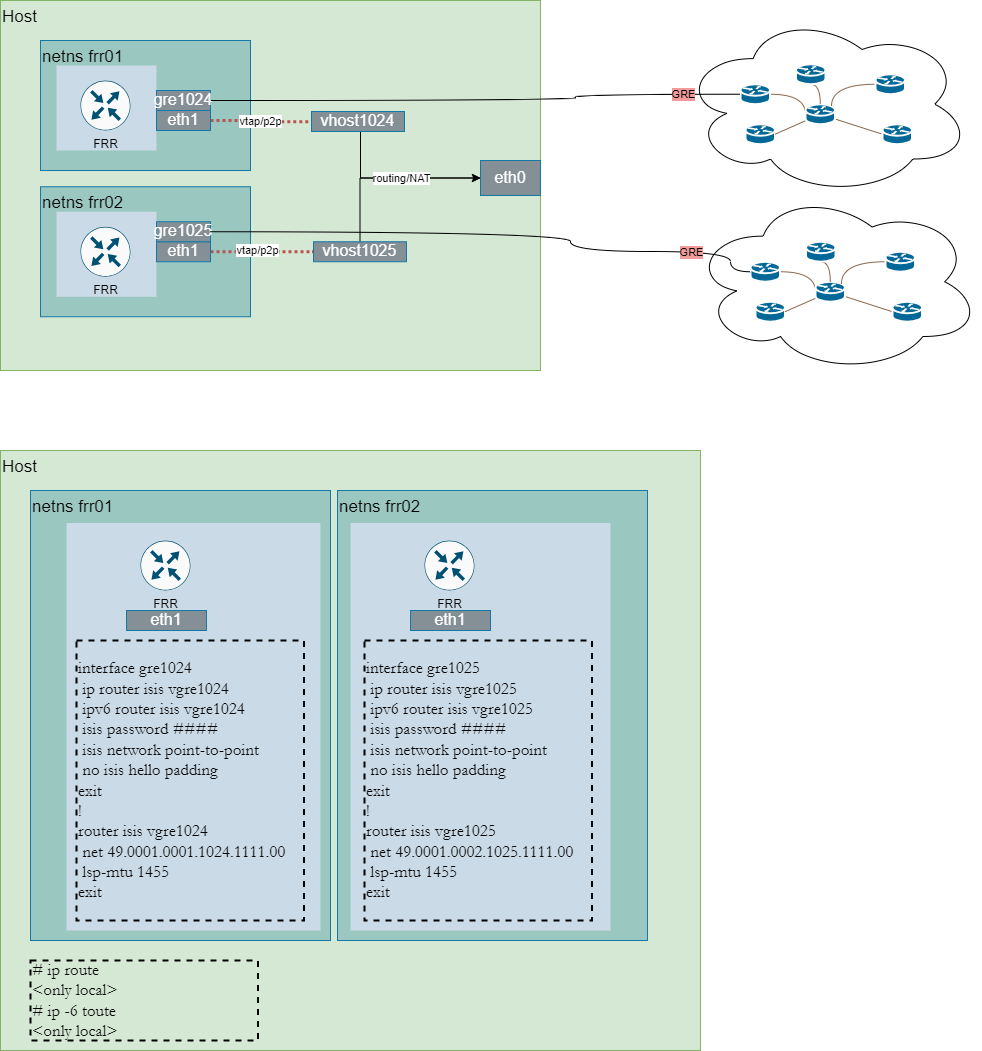
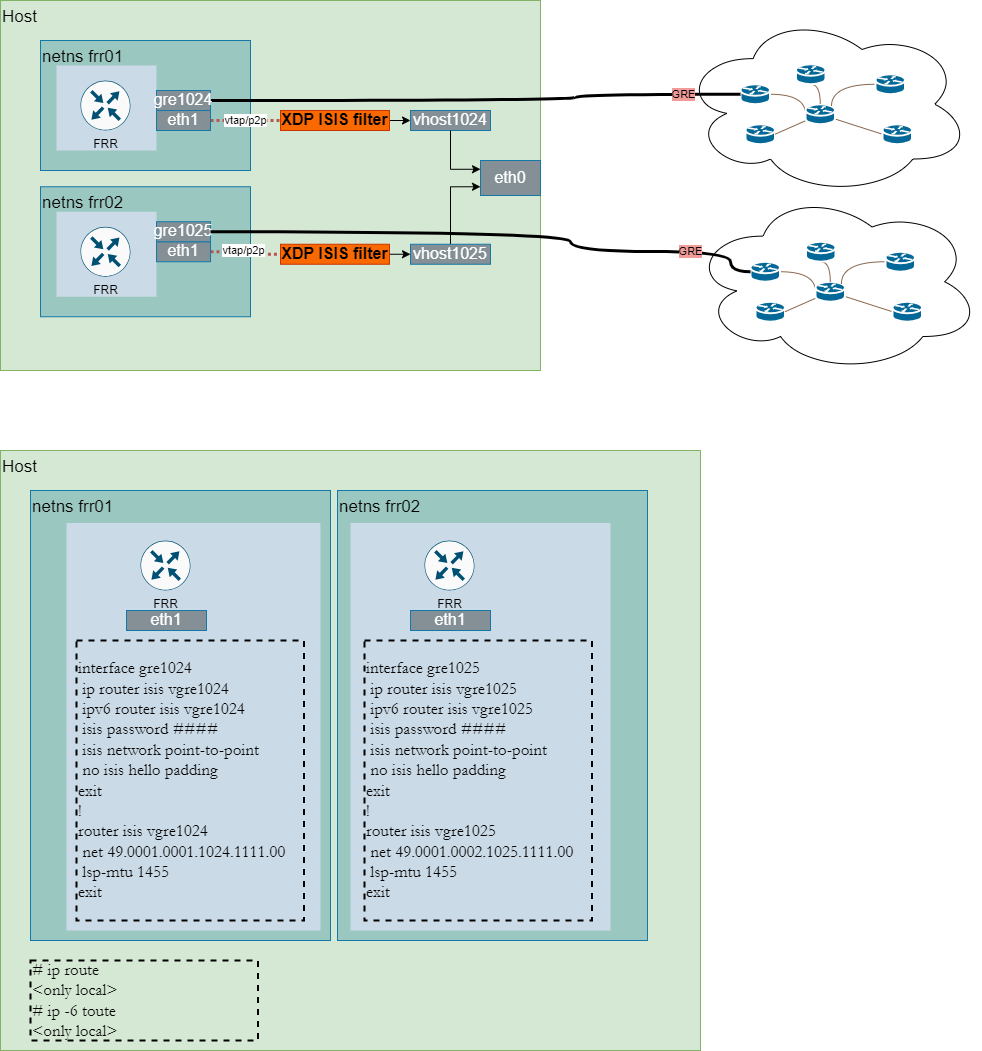
XDP IS-IS filter is added

diff --git a/xdp/xdp_drop.c b/xdp/xdp_drop.c
@@ -1,0 +1,285 @@
+#include <linux/bpf.h> // define XDP program return code: XDP_PASS,..
+#include <linux/ip.h> // iphdr
+#include <linux/if_ether.h> // ethhdr, ETH_P_IP
+#include <bpf/bpf_helpers.h> // SEC() macro.
+#include <bpf/bpf_endian.h> // bpf_htons
+
+// enable debug print
+//#define DEBUG
+// enable packet header dump
+//#define DEBUG_PRINT_HEADER_SIZE 64
+
+#define OSI_PROTO_TYPE 0x00fe
+#define IPPROTO_GRE		47 /* Cisco GRE tunnels (rfc 1701,1702)	*/
+#define L1_LINK_STATE        18
+#define L2_LINK_STATE        20
+
+struct gre_header {
+    __be16 flags_and_version;
+    __be16 proto;
+};
+
+#define MAX_LSP_ENTRIES 50 // Curently, there are 43 LSPs
+
+/*
++-------+-------+-------+-------+-------+-------+-------+-------+
+|         Intradomain Routeing Protocol Discriminator           |
++-------+-------+-------+-------+-------+-------+-------+-------+
+|                       Length Indicator                        |
++-------+-------+-------+-------+-------+-------+-------+-------+
+|                  Version/Protocol ID extension                |
++-------+-------+-------+-------+-------+-------+-------+-------+
+|                         Reserved = 0                          |
++-------+-------+-------+-------+-------+-------+-------+-------+
+|   0   |   0   |   0   |              PDU Type                 |
++-------+-------+-------+-------+-------+-------+-------+-------+
+|                         Holding Time                          | 2
++-------+-------+-------+-------+-------+-------+-------+-------+
+|                          Checksum                             | 2
++-------+-------+-------+-------+-------+-------+-------+-------+
+*/
+#pragma pack(1)
+struct isis_common_pdu {
+    __u8 nlpid;
+    __u8 hdrlen;
+    __u8 version;
+    __u8 idlen;
+    __u8 pdutype:5,
+        reserv:3;
+    __u8 pduversion;
+    __u8 hdrreserved;
+    __u8 maxareaaddresses;
+};
+
+/*
++-------------------------+
+|  PDU Length             |     2
++-------------------------+
+|  Remaining Lifetime     |     2
++-------------------------+
+|   FS LSP ID             |     ID Length + 2
++-------------------------+
+| Sequence Number         |     4
++-------------------------+
+| Checksum                |     2
++-------------------------+
+|Reserved|LSPDBOL|IS Type |     1
++-------------------------+
+: Variable-Length Fields  :     Variable
++-------------------------+
+*/
+#pragma pack(1)
+struct lsp {
+    __be16 length;
+    __be16 lifetime;
+    __be32 lspid[2];
+    __be32 seqnum;
+    __be16 checksum;
+    __u8 istype:2,
+        overload:1,
+        att:4,
+        partition:1;
+};
+
+#define TLV_TYPE_SIZE 1
+#define TLV_LENGHT_SIZE 1
+
+#pragma pack(1)
+struct type_value {
+    __u8 type;
+    __u8 lenght;
+    //void *value;
+};
+
+#define TLV128_INTERNAL_IP_REACH_TYPE_INT 128
+#pragma pack(1)
+struct tlv128 {
+    struct type_value type_value;
+    __be32 metric;
+    __be32 ipaddress;
+    __be32 network_mask;
+};
+#define TLV130_EXTERNAL_IP_REACH_TYPE_INT 130
+
+#define TLV135_EXTENDED_IP_REACH_TYPE_INT 135
+#pragma pack(1)
+struct tlv135 {
+    // prefix field is not analysed and only "prefixlength" is used
+    struct type_value type_value;
+    __be32 metric;
+    __u8 prefixlength:6,
+        subtlv_bool:1,
+        distribution:1;
+    //void *prefix;
+};
+
+#define TLV236_IPV6_REACH_TYPE_INT 236
+#pragma pack(1)
+struct tlv236 {
+    // prefix field is not analysed and only "prefixlength" is used
+    struct type_value type_value;
+    __be32 metric;
+    __u8 reserv:5,
+        updown:1,
+        external:1,
+        subtlv_bool:1;
+    __u8 prefixlength;
+    //void *prefix;
+};
+
+static __always_inline int calc_cidr_lenght(int prefixlength) {
+/*
+   The prefix is "packed" in the data structure.  That is, only the
+   required number of octets of prefix are present.  This number can be
+   computed from the prefix length octet as follows:
+   prefix octets = integer of ((prefix length + 7) / 8)
+*/
+    return ((prefixlength + 7) / 8);
+}
+
+SEC("xdp_drop")
+int xdp_isis_tlv_func(struct xdp_md *ctx) {
+	// for border checking
+	void *data = (void *)(long)ctx->data;
+	void *data_end = (void *)(long)ctx->data_end;
+    struct ethhdr *eth = data;
+
+    if (data + sizeof(struct ethhdr) > data_end) goto pass;
+    // IP Header
+    data += sizeof(struct ethhdr);
+    #ifdef DEBUG
+		bpf_printk("New packet\n");
+	#endif
+
+	// debug print packet header
+    
+	#if (defined DEBUG_PRINT_HEADER_SIZE) && (DEBUG_PRINT_HEADER_SIZE > 0)
+		// check for out of boarder access is necessary, kernel will run static analysis on our program
+		if ((data + DEBUG_PRINT_HEADER_SIZE) > data_end) {
+			bpf_printk("Packet size too small, dump failed\n");
+			return XDP_PASS;
+		}
+		__u8 *data_raw = (__u8 *)data;
+		bpf_printk("Packet header dump:\n");
+		#pragma unroll
+		for (int i = 0; i < DEBUG_PRINT_HEADER_SIZE; ++i) {
+			bpf_printk("#%d: %x\n", i, data_raw[i]);
+		}
+	#endif
+
+    if ( eth->h_proto == bpf_htons(ETH_P_IP)) {
+
+        if (data + sizeof(struct iphdr) > data_end) goto pass;
+
+        struct iphdr *ip = (struct iphdr *)(data);
+        if ((ip->protocol) != IPPROTO_GRE) goto pass;
+        // GRE Header
+        data += sizeof(struct iphdr);
+
+        if (data + sizeof(struct gre_header) > data_end) goto pass;
+        struct gre_header *gre = (struct gre_header *)(data);
+        #ifdef DEBUG
+            bpf_printk("GRE proto: %x, flags_and_version: %x\n", gre->proto, gre->flags_and_version);
+        #endif
+        if ((gre->proto) != bpf_htons(OSI_PROTO_TYPE)) goto pass;
+        // PDU Header
+        data += sizeof(struct gre_header);
+        if (data + sizeof(struct isis_common_pdu) > data_end) goto pass;
+
+        struct isis_common_pdu *pdu = (struct isis_common_pdu *)(data);
+        data += sizeof(struct isis_common_pdu);
+        #ifdef DEBUG
+            bpf_printk("ISIS nlpid:  %x\n", pdu->nlpid);
+            bpf_printk("ISIS hdrlen:  %x\n", pdu->hdrlen);
+            bpf_printk("PDU type: %x\n", pdu->pdutype);
+        #endif
+
+        if ((pdu->pdutype != 0x12) && (pdu->pdutype != 0x14)) goto pass;
+
+        if (data + sizeof(struct lsp) > data_end) goto pass;
+        // LSP Header
+        struct lsp *lsp = (struct lsp *)(data);
+        #ifdef DEBUG
+            bpf_printk("LSP lenght: %x, %i\n", bpf_htons(lsp->length), (int)bpf_htons(lsp->length));
+            bpf_printk("LSP lifetime: %x, %i\n", bpf_htons(lsp->lifetime), (int)bpf_htons(lsp->lifetime));
+        #endif
+        // TLV
+        data += sizeof(struct lsp);
+        
+        if (data + sizeof(struct type_value) > data_end) goto pass;
+
+        // checking TLV one by one
+        #pragma unroll
+        for (int tlv_i=0; tlv_i < MAX_LSP_ENTRIES; tlv_i++) {
+            if (data + sizeof(struct type_value) > data_end) goto pass;
+            struct type_value *type_value = (struct type_value *)(data);
+            int size_of_tlv_header = TLV_TYPE_SIZE + TLV_LENGHT_SIZE;
+            int size_of_tlv = TLV_TYPE_SIZE + TLV_LENGHT_SIZE + (int)type_value->lenght;
+            #ifdef DEBUG
+                bpf_printk("TLV type: %x, %i\n", type_value->type, (int)type_value->type);
+                bpf_printk("TLV Lenght:  %i\n",  (int)type_value->lenght);
+                bpf_printk("Full TLV size: %i\n", size_of_tlv);
+            #endif
+
+            if (type_value->type == TLV130_EXTERNAL_IP_REACH_TYPE_INT) {
+                bpf_printk("TLV130 External IP reachability detected. Drop!\n");
+                return XDP_DROP;
+            } else if (type_value->type == TLV128_INTERNAL_IP_REACH_TYPE_INT) {
+                #ifdef DEBUG
+                    bpf_printk("TLV128, length: %i\n", (int)type_value->lenght);
+                #endif
+                if ((int)type_value->lenght > 12) {
+                    bpf_printk("TLV128 has more than 1 network. Drop!\n");
+                    return XDP_DROP;
+                }
+            } else if (type_value->type == TLV135_EXTENDED_IP_REACH_TYPE_INT) {
+                #ifdef DEBUG
+                    bpf_printk("TLV135, length: %i\n", (int)type_value->lenght);
+                #endif
+                if (data + sizeof(struct tlv135) > data_end) {
+                    goto pass;
+                }
+
+                struct tlv135 *tlv135 = (struct tlv135 *)(data);
+                int calculated_prefix_lenght = calc_cidr_lenght((int)tlv135->prefixlength);
+                int full_lenght_first_tlv = sizeof(tlv135->metric) + 1 + calculated_prefix_lenght; // 1 bytes embrasses distribution, subtlv, prefix lenght fields
+                // TLV includes a single network if length of TLV is equal to Length of first TLV
+                if ((int)type_value->lenght > full_lenght_first_tlv) {
+                    bpf_printk("TLV135 has more than 1 network - drop!\n");
+                    return XDP_DROP;
+                }
+            } else if (type_value->type == TLV236_IPV6_REACH_TYPE_INT) {
+                #ifdef DEBUG
+                    bpf_printk("TLV236, length: %i\n", (int)type_value->lenght);
+                #endif
+                if (data + sizeof(struct tlv236) > data_end) goto pass;
+ 
+                struct tlv236 *tlv236 = (struct tlv236 *)(data);
+                #ifdef DEBUG
+                    bpf_printk("TLV236, prefixlength: %x, %i\n", tlv236->prefixlength, (int)tlv236->prefixlength);
+                    bpf_printk("TLV236, metric: %x, %i\n", bpf_htons(tlv236->metric), (int)bpf_htons(tlv236->metric));
+                #endif
+
+                int calculated_prefix_lenght = calc_cidr_lenght((int)tlv236->prefixlength);
+                int full_lenght_first_tlv = sizeof(tlv236->metric) + 1 + sizeof(tlv236->prefixlength) + calculated_prefix_lenght; // 1 bytes embrasses updown, external, subtlv fields
+
+                if ((int)type_value->lenght > full_lenght_first_tlv) {
+                    bpf_printk("TLV236 has more than 1 network - drop!\n");
+                    return XDP_DROP;
+                }
+            }
+            #ifdef DEBUG
+                bpf_printk("------------\n");
+            #endif
+            // shift pointer to the next TLV
+            if (data + size_of_tlv > data_end) goto pass;
+            data += size_of_tlv;
+        }
+    }
+    bpf_printk("\n");
+    return XDP_PASS;
+pass:
+	return XDP_PASS;
+}
+
+char _license[4] SEC("license") = "GPL";

diff --git a/client.py b/client.py
@@ -24,6 +24,8 @@ class WATCHER_CONFIG:
     ROUTER_NODE_NAME = "router"
     ROUTER_ISIS_SYSTEMID = "49.{area_num}.{watcher_num}.{gre_num}.1111.00"
     WATCHER_NODE_NAME = "isis-watcher"
+    ISIS_FILTER_NODE_NAME = "receive_only_filter"
+    ISIS_FILTER_NODE_IMAGE = "vadims06/isis-filter-xdp:latest"
     def __init__(self, watcher_num):
         self.watcher_num = watcher_num
         # default
@@ -196,6 +198,12 @@ class WATCHER_CONFIG:
         # Watcher
         watcher_config_yml['topology']['nodes'][self.WATCHER_NODE_NAME]['network-mode'] = f"container:{self.ROUTER_NODE_NAME}"
         watcher_config_yml['topology']['nodes'][self.WATCHER_NODE_NAME]['binds'].append(f"../logs/{self.watcher_folder_name}.log:/home/watcher/watcher/logs/watcher.log")
+        # IS-IS XDP filter, listen only
+        watcher_config_yml['topology']['nodes'][self.ISIS_FILTER_NODE_NAME]['image'] = self.ISIS_FILTER_NODE_IMAGE
+        watcher_config_yml['topology']['nodes'][self.ISIS_FILTER_NODE_NAME]['network-mode'] = "host"
+        watcher_config_yml['topology']['nodes'][self.ISIS_FILTER_NODE_NAME]['env']['VTAP_HOST_INTERFACE'] = self.host_veth
+        # Enable GRE after XDP filter
+        watcher_config_yml['topology']['nodes']['h2']['exec'] = [f'sudo ip netns exec {self.netns_name} ip link set up dev gre1']
         with open(os.path.join(self.watcher_folder_path, "config.yml"), "w") as f:
             s = StringIO()
             ruamel_yaml_default_mode.dump(watcher_config_yml, s)
@@ -270,10 +278,13 @@ class WATCHER_CONFIG:
             f'ip netns exec {self.netns_name} ip tunnel add gre1 mode gre local {str(self.p2p_veth_watcher_ip_obj)} remote {self.gre_tunnel_network_device_ip}',
             f'ip netns exec {self.netns_name} ip address add {self.gre_tunnel_ip_w_mask_watcher} dev gre1',
             f'sudo iptables -t nat -A POSTROUTING -p gre -s {self.p2p_veth_watcher_ip} -d {self.gre_tunnel_network_device_ip} -j SNAT --to-source {self.host_interface_device_ip}',
-            f'sudo iptables -t nat -A PREROUTING -p gre -s {self.gre_tunnel_network_device_ip} -d {self.host_interface_device_ip} --to-destination {self.p2p_veth_watcher_ip} -j DNAT',
+            f'sudo iptables -t nat -A PREROUTING -p gre -s {self.gre_tunnel_network_device_ip} -d {self.host_interface_device_ip} -j DNAT --to-destination {self.p2p_veth_watcher_ip}',
             f'sudo iptables -t filter -A FORWARD -p gre -s {self.p2p_veth_watcher_ip} -d {self.gre_tunnel_network_device_ip} -i {self.host_veth} -j ACCEPT',
             f'sudo iptables -t filter -A FORWARD -p gre -s {self.gre_tunnel_network_device_ip} -j ACCEPT', # do not set output interface
-            f'ip netns exec {self.netns_name} ip link set up dev gre1',
+            f'sudo ip netns exec {self.netns_name} ip link set mtu 1600 dev veth1', # for xdp
+            # enable GRE after applying XDP filter
+            #f'sudo ip netns exec {self.netns_name} ip link set up dev gre1',
+            f'sudo ip link set mtu 1600 dev {self.host_veth}',
             f'sudo conntrack -D --src {self.gre_tunnel_network_device_ip} -p 47',
         ]
 
@@ -296,6 +307,7 @@ class WATCHER_CONFIG:
         self.do_add_watcher_prechecks()
         # create folder
         self.create_folder_with_settings()
+        print(f"Config has been successfully generated!")
 
     def stop_watcher(self):
         raise NotImplementedError("Not implemented yet. Please run manually `sudo clab destroy --topo <path to config.yml>`")
